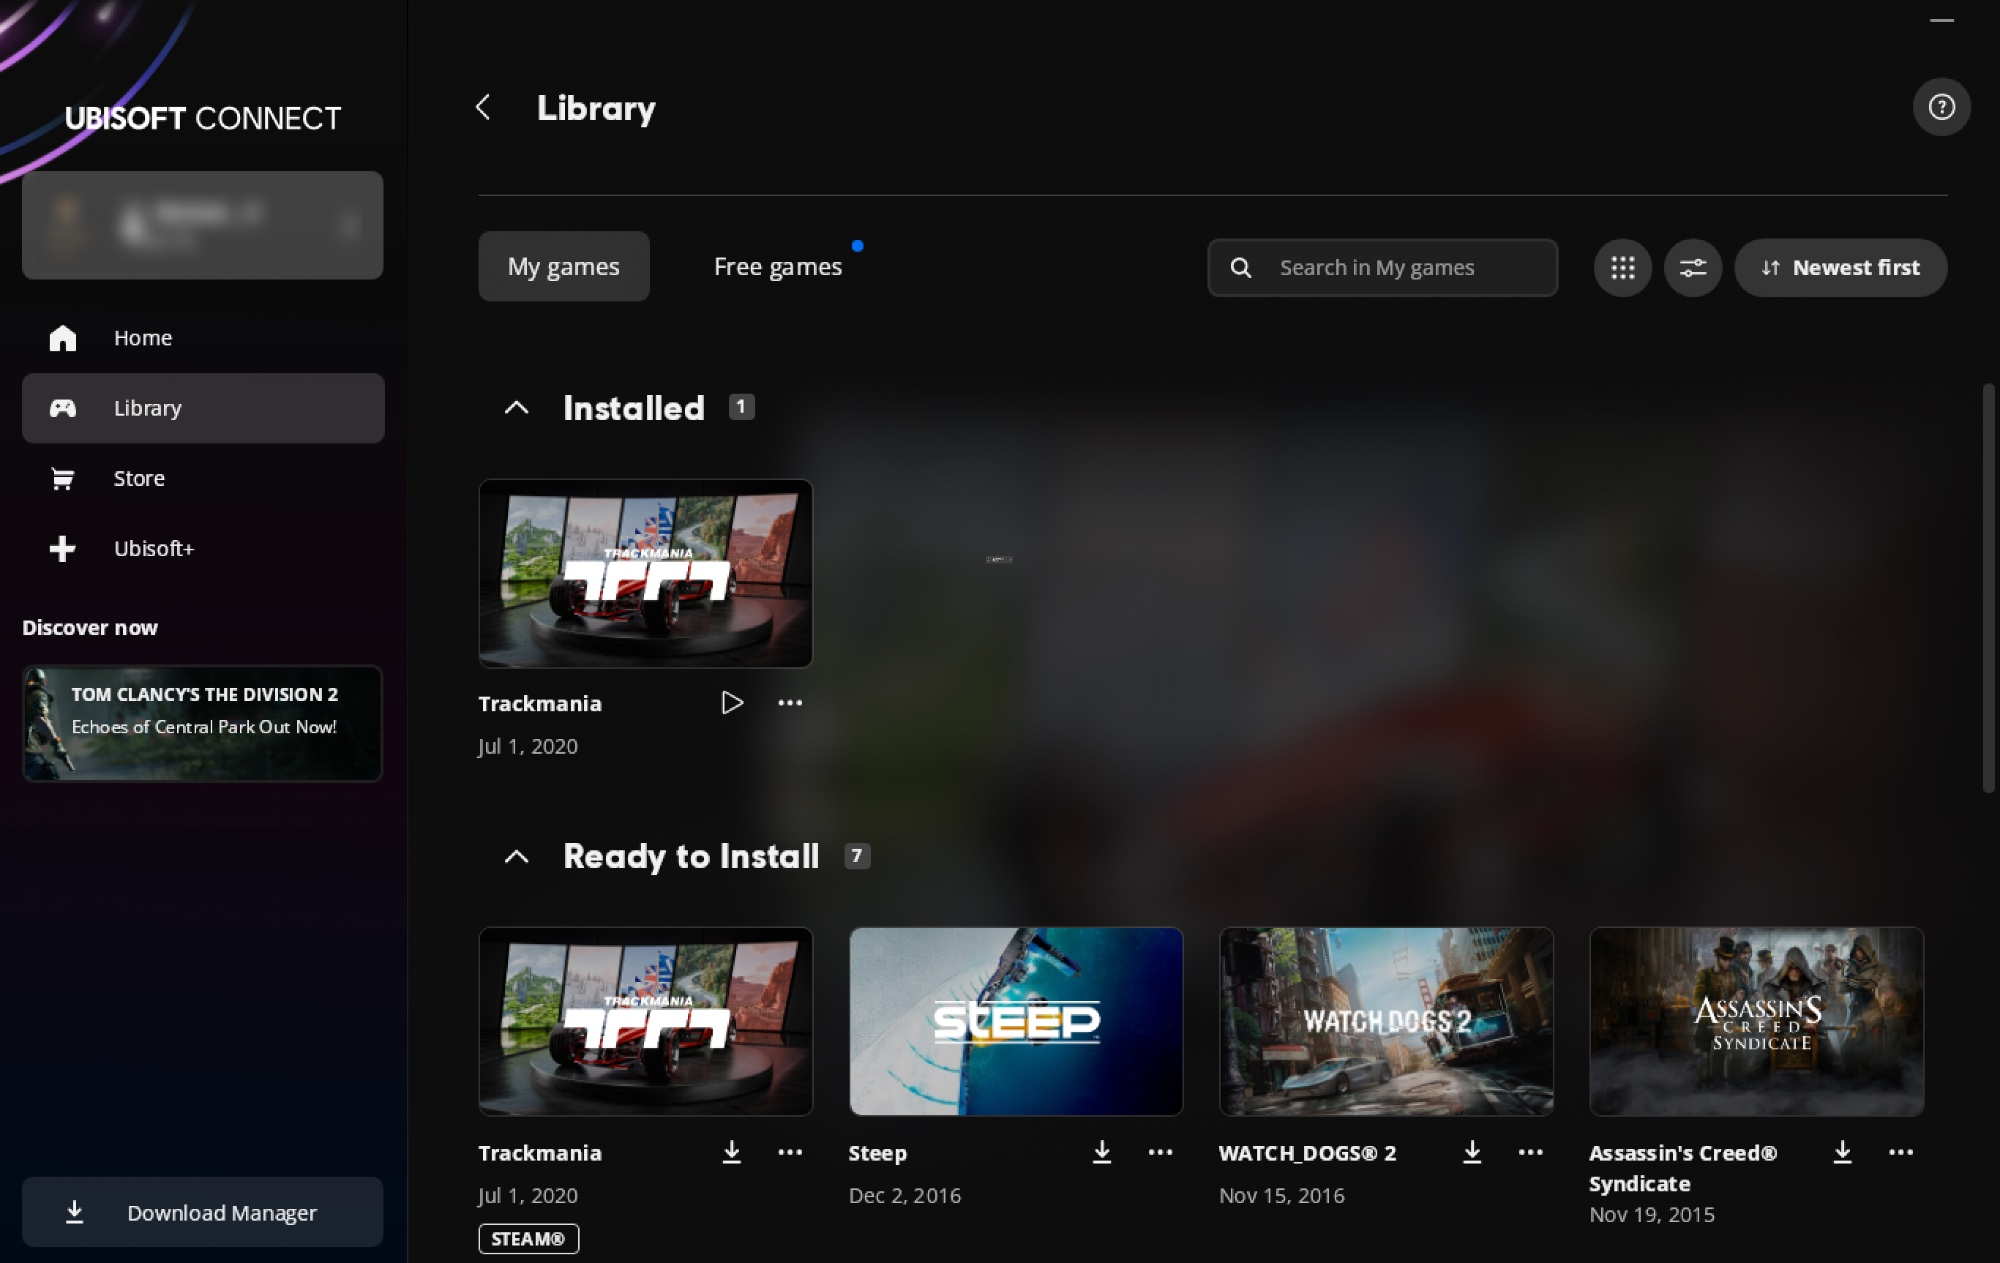
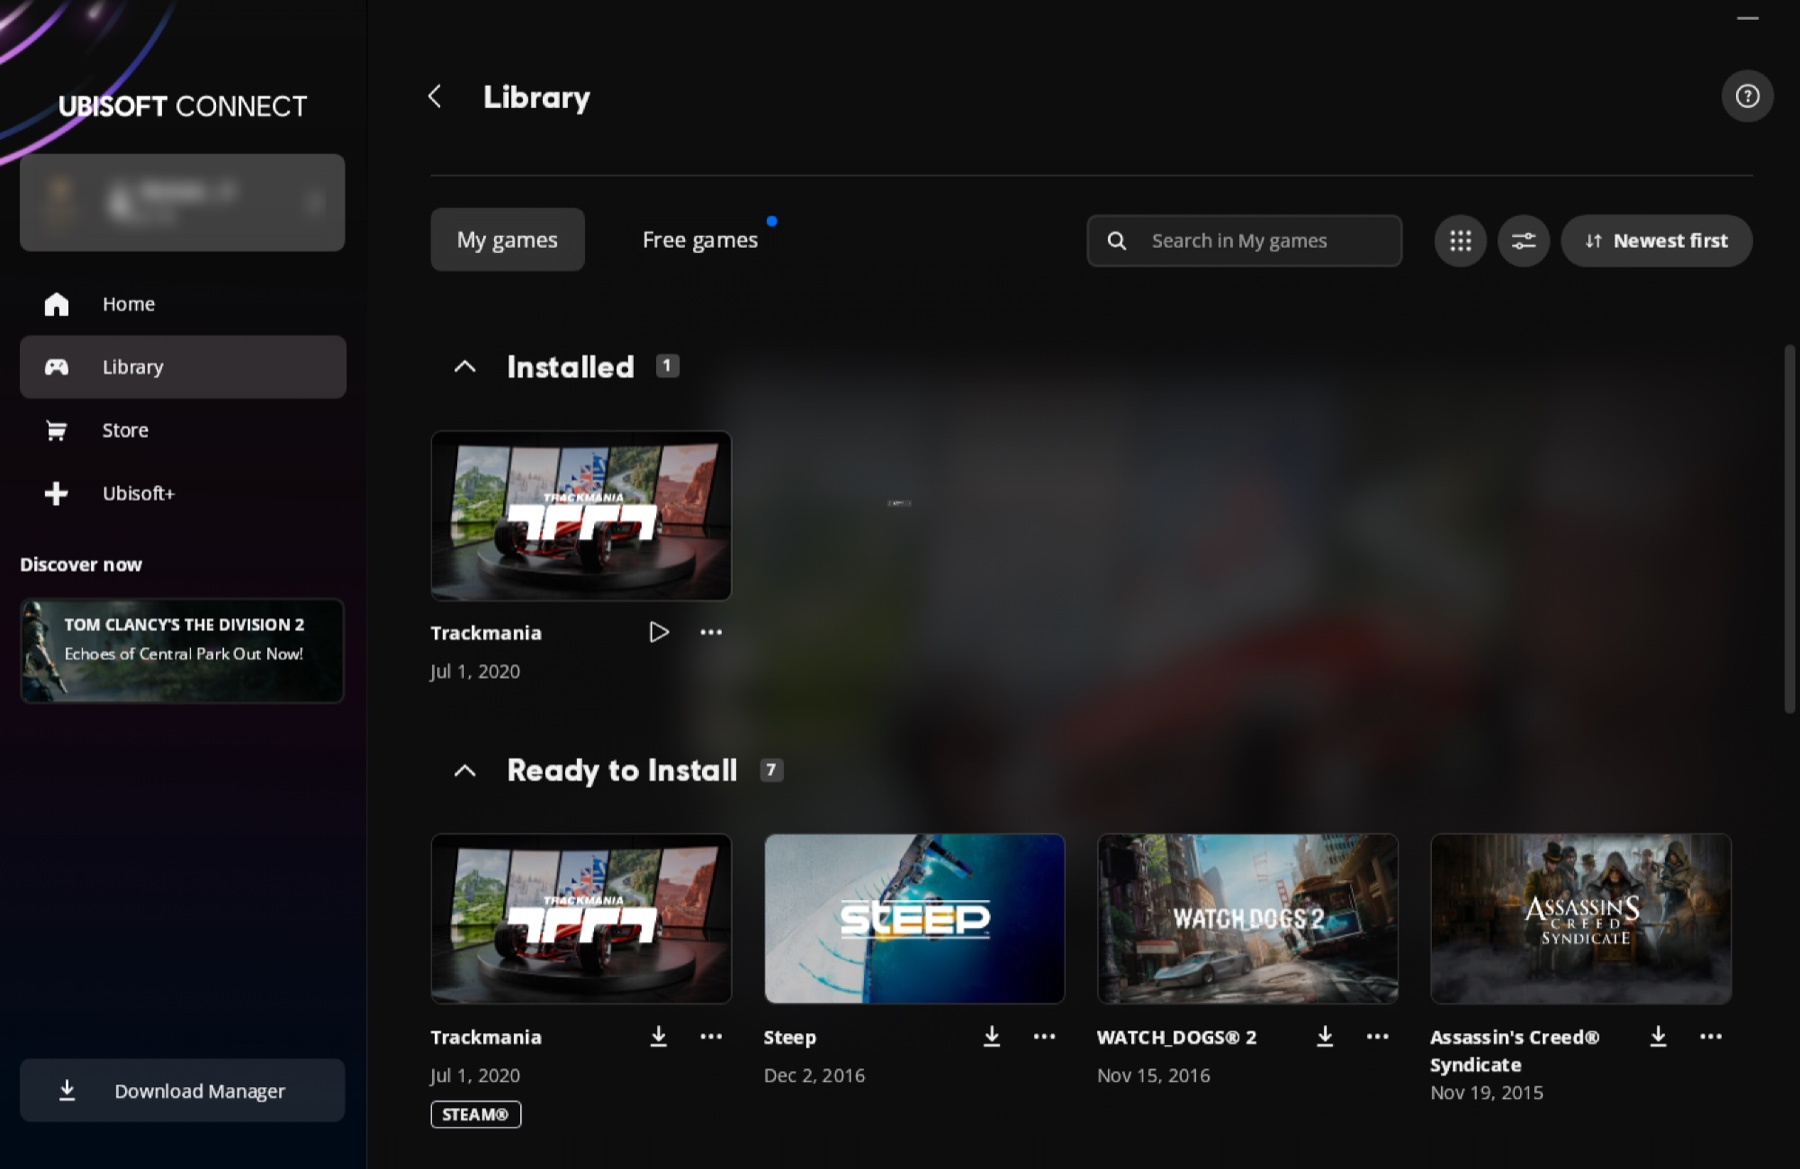
Show the screenshots at one size

diff --git a/README.md b/README.md
@@ -2,11 +2,24 @@
 
 Play Trackmania (2020) on a Mac with an M-series chip. This free, open-source project runs Ubisoft Connect and the game through Wine, with fixes for Apple's graphics and some speed-ups of its own. Sign-in, online races and [Openplanet](https://openplanet.dev) with its plugins all work.
 
-| Ubisoft Connect | Main menu |
-| --- | --- |
-| ![Ubisoft Connect's library with Trackmania installed](docs/images/ubisoft-connect.jpg) | ![Trackmania's main menu](docs/images/main-menu.jpg) |
-| **In a race, with Openplanet** | **On an online server** |
-| ![A race on a campaign map, with Openplanet's menu bar and a frame rate counter](docs/images/in-game.jpg) | ![An online server, with Openplanet plugins](docs/images/online-server.jpg) |
+<table>
+  <tr>
+    <th width="50%">Ubisoft Connect</th>
+    <th width="50%">Main menu</th>
+  </tr>
+  <tr>
+    <td><img src="docs/images/ubisoft-connect.jpg" width="100%" alt="Ubisoft Connect's library with Trackmania installed"></td>
+    <td><img src="docs/images/main-menu.jpg" width="100%" alt="Trackmania's main menu"></td>
+  </tr>
+  <tr>
+    <th>In a race, with Openplanet</th>
+    <th>On an online server</th>
+  </tr>
+  <tr>
+    <td><img src="docs/images/in-game.jpg" width="100%" alt="A race on a campaign map, with Openplanet's menu bar and a frame rate counter"></td>
+    <td><img src="docs/images/online-server.jpg" width="100%" alt="An online server, with Openplanet plugins"></td>
+  </tr>
+</table>
 
 ## What works
 
